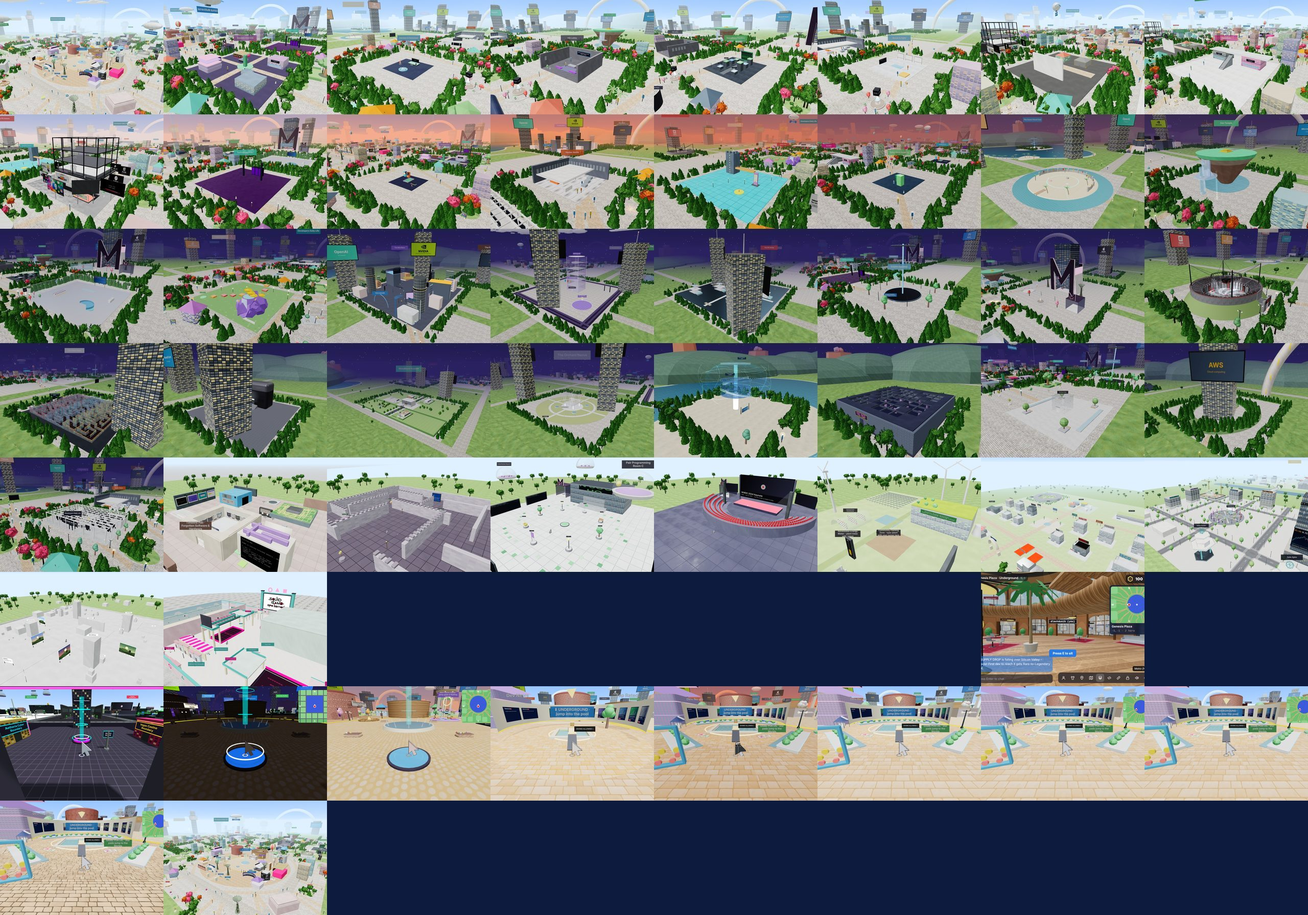
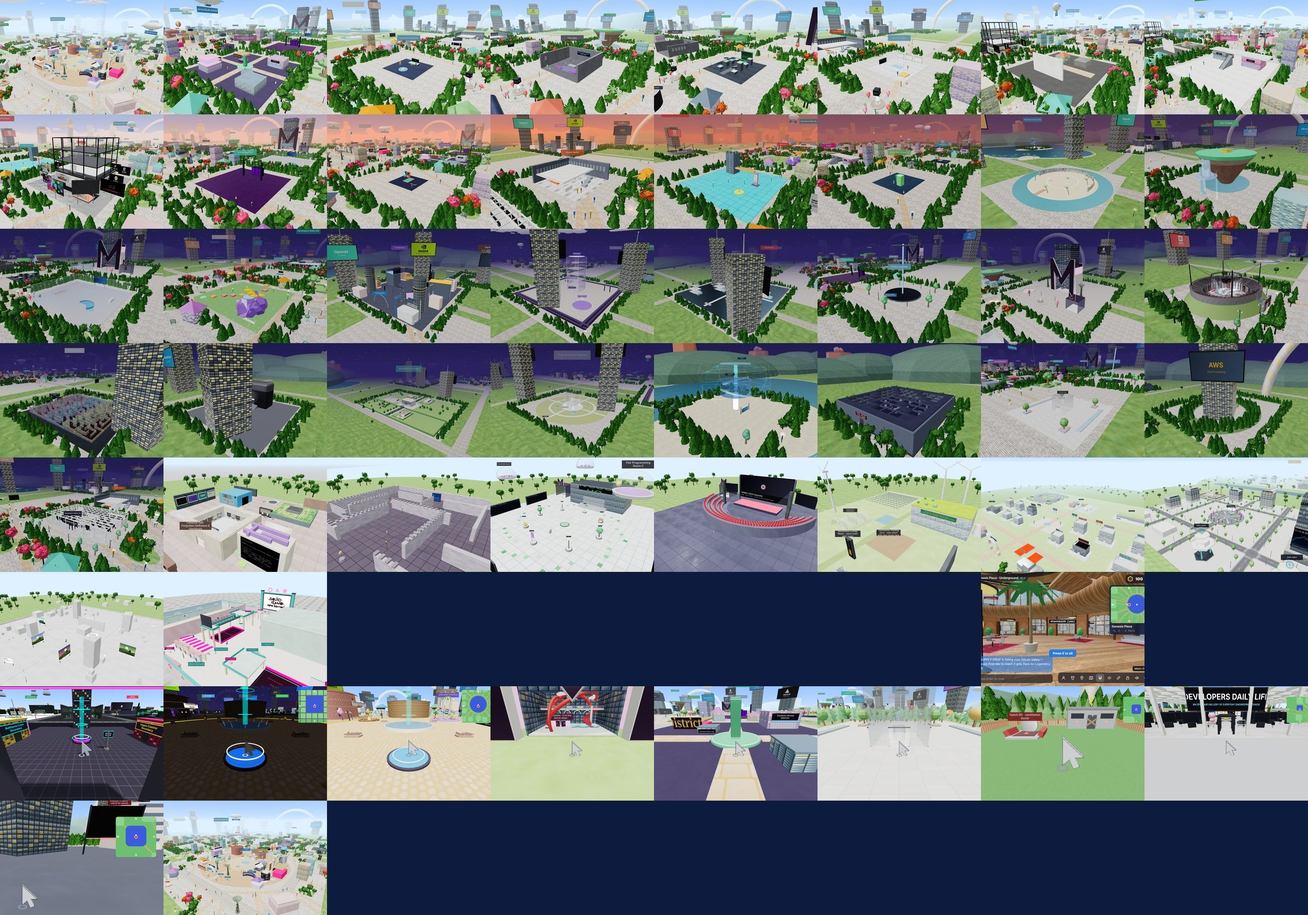
Launcher: Home lists playable versions v1 to v10 with a screenshot of each build, Worlds shows the worlds, Play adds every district; login panorama; Esc theater mode; faster start (no 3D frames drawn behind the login or the launcher, shaders compiled before entering)
Claude-Session: https://claude.ai/code/session_01VT7zY5BFAhLranB33rr1gS

Changed region(s): [[0.25, 0.75, 1.0, 0.875], [0.0, 0.875, 0.125, 1.0]]

diff --git a/public/main.js b/public/main.js
@@ -1696,8 +1696,20 @@ function setupNetwork(session) {
 // ============================================================================
 // RUNTIME LOOP
 // ============================================================================
+// While the welcome screen or the launcher covers the whole page the 3D world
+// is not drawn at all: those screens stay smooth and the districts finish
+// building sooner, instead of the GPU drawing frames nobody can see
+let coverScreens = null;
+function worldCovered() {
+  if (!coverScreens) coverScreens = { auth: document.getElementById('auth-screen') };
+  const auth = coverScreens.auth;
+  if (document.getElementById('launcher')) return true;
+  return Boolean(auth && auth.style.display !== 'none' && !auth.classList.contains('leaving'));
+}
+
 function animate() {
   requestAnimationFrame(animate);
+  if (worldCovered()) { clock.getDelta(); return; }
   const frameSeconds = Math.min(clock.getDelta(), 0.25);
   Quality.sample(frameSeconds);
   const deltaSeconds = Math.min(frameSeconds, 0.1);
@@ -1995,6 +2007,8 @@ loadUniverse()
 const universeReady = plazaReady.then(() => {
   const plaza = findPlace('plaza') || places[0];
   if (plaza) flyTo(placeLanding(plaza), null);
+  // Compile the plaza's shaders once, behind the launcher, so the first frame in the world does not stall
+  try { renderer.compile(scene, camera); } catch (error) { /* compiled on the first frame instead */ }
 });
 
 // After login the launcher (auth.js) opens; LAUNCH GAME or a card's play
@@ -2217,7 +2231,7 @@ const Theater = (() => {
     active = true;
     keysPressed.clear();
     const here = (document.getElementById('hud-world') || {}).textContent || '';
-    bar.querySelector('.th-name').textContent = `GITHUB MULTIVERSE ${window.Launcher && Launcher.currentVersion ? Launcher.currentVersion() : ''}`.trim();
+    bar.querySelector('.th-name').textContent = `GITHUB MULTIVERSE ${typeof Launcher !== 'undefined' && Launcher.currentVersion ? Launcher.currentVersion() : ''}`.trim();
     bar.querySelector('.th-place').textContent = here;
     bar.querySelectorAll('.th-pop').forEach((pop) => pop.classList.remove('open'));
     document.body.classList.add('theater');

diff --git a/public/auth.js b/public/auth.js
@@ -340,7 +340,7 @@ const Launcher = (() => {
 
   function cardHtml(entry) {
     return `<div class="ln-card${state.selected === entry.key ? ' on' : ''}" data-key="${entry.key}">
-      <div class="ln-cover" style="${tileStyle(entry.tile ?? entry.key)}"><b>${esc(entry.title)}</b>${entry.date ? `<em>${esc(entry.date)}</em>` : ''}</div>
+      <div class="ln-cover" style="${tileStyle(entry.tile ?? entry.key)}"><b>${esc(entry.title)}</b>${entry.when ? `<em>${esc(entry.when)}</em>` : ''}</div>
       <div class="ln-card-foot"><span>${esc(entry.version)}</span><button class="ln-play" data-play="${entry.key}" title="Play ${esc(entry.title)}">&#9654;</button></div></div>`;
   }
 
@@ -351,7 +351,7 @@ const Launcher = (() => {
       const query = (state.query || '').toLowerCase();
       let list = tab === 'worlds'
         ? worlds.filter((world) => world.world).map((world, i) => ({ key: world.key, title: world.name, version: 'World', popular: i, date: i, text: world.description }))
-        : tab === 'home' ? VERSIONS.map((entry, i) => ({ ...entry, popular: VERSIONS.length - i, date: VERSIONS.length - i }))
+        : tab === 'home' ? VERSIONS.map((entry, i) => ({ ...entry, when: entry.date, popular: VERSIONS.length - i, date: VERSIONS.length - i }))
           : ENTRIES.concat(worlds.filter((world) => !world.world && world.key !== 'plaza' && world.photo).map((world, i) => ({ key: world.key, title: world.name, version: 'District', popular: 0, date: -i, text: world.description })));
       list = list.filter((entry) => !query || `${entry.title} ${entry.version} ${entry.text || ''}`.toLowerCase().includes(query));
       const sort = state.sort || 'popular';
